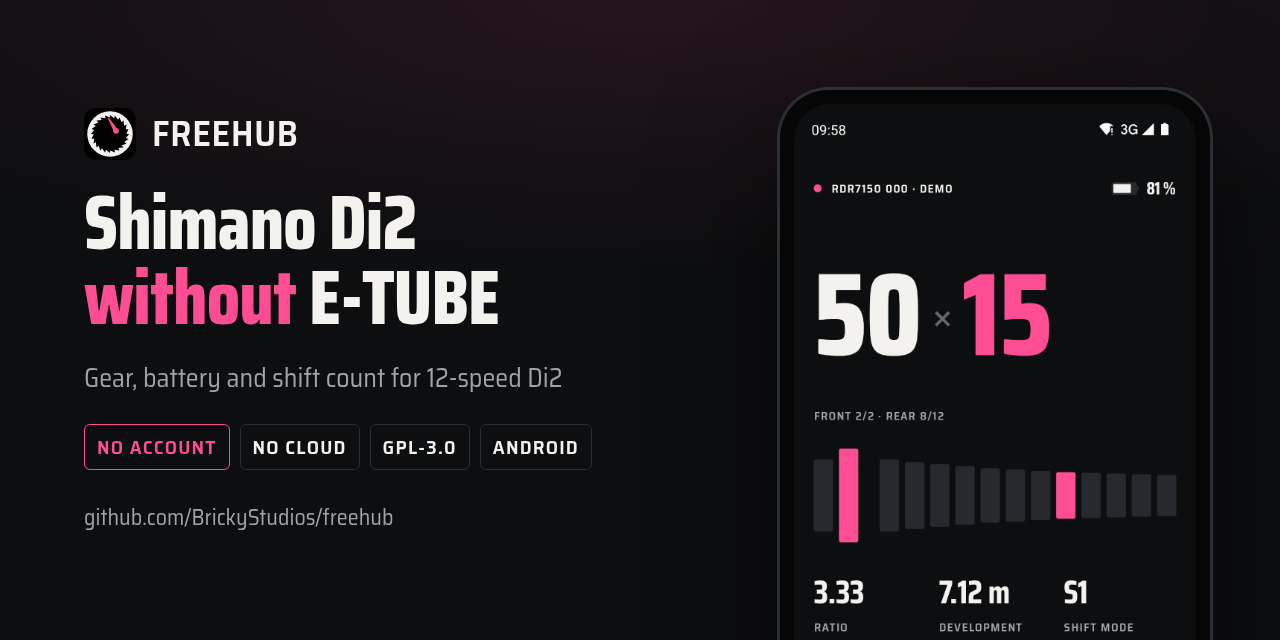
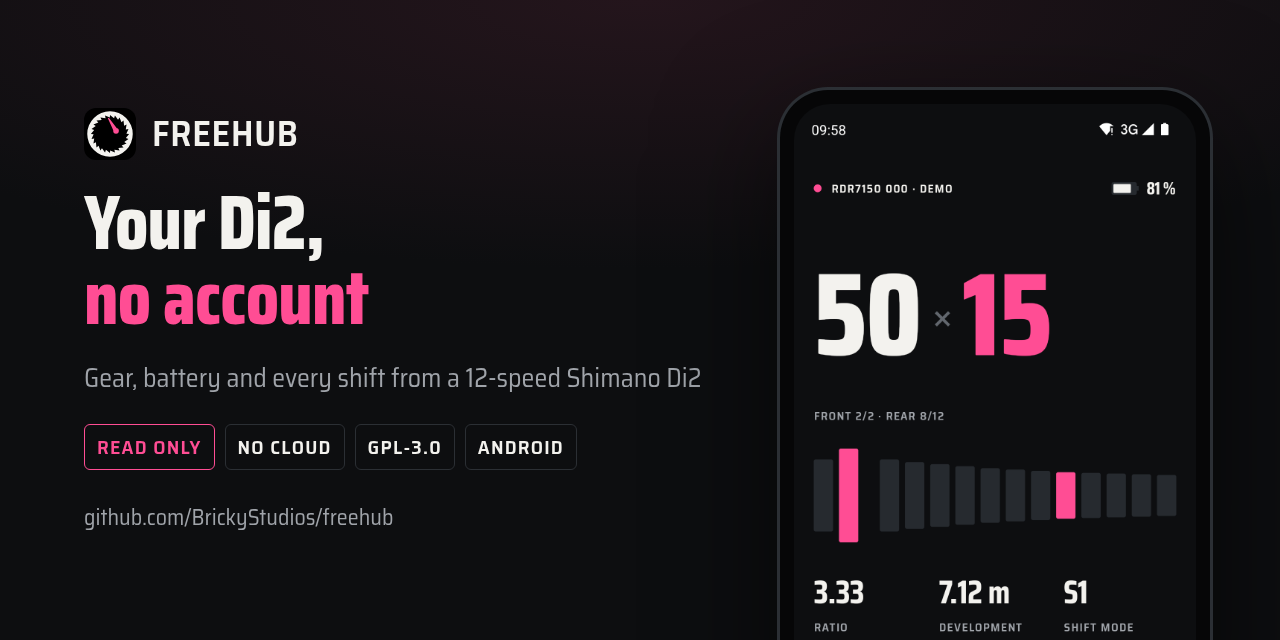
Lead with no account instead of without E-TUBE
E-TUBE is Shimano's whole Di2 platform, which Freehub talks to; the old
line also promised more than a read-only app does. Preview image and
link titles now say what the app really saves you: an account.

Changed region(s): [[0.0625, 0.2812, 0.4062, 0.5312], [0.2188, 0.5625, 0.5625, 0.625], [0.0625, 0.6875, 0.4688, 0.7188]]

diff --git a/tools/rahmen.html b/tools/rahmen.html
@@ -32,7 +32,7 @@ const t=q.get("t").replace("|","<br>").replace(/\*(.+?)\*/g,"<em>$1</em>");
 const logo='<svg viewBox="22 22 64 64"><path fill="#F3F2EE" fill-rule="evenodd" d="M26.00,54.00a28,28 0 1,0 56.00,0a28,28 0 1,0 -56.00,0z M54.00,30.48L59.01,34.47L60.09,31.28L63.90,36.44L65.76,33.63L68.11,39.60L70.63,37.37L71.35,43.74L74.37,42.24L73.42,48.58L76.72,47.91L74.16,53.79L77.52,54.00L73.53,59.01L76.72,60.09L71.56,63.90L74.37,65.76L68.40,68.11L70.63,70.63L64.26,71.35L65.76,74.37L59.42,73.42L60.09,76.72L54.21,74.16L54.00,77.52L48.99,73.53L47.91,76.72L44.10,71.56L42.24,74.37L39.89,68.40L37.37,70.63L36.65,64.26L33.63,65.76L34.58,59.42L31.28,60.09L33.84,54.21L30.48,54.00L34.47,48.99L31.28,47.91L36.44,44.10L33.63,42.24L39.60,39.89L37.37,37.37L43.74,36.65L42.24,33.63L48.58,34.58L47.91,31.28L53.79,33.84L54.00,30.48z"/><path fill="#FF4D94" d="M63.82,48.62L52.52,33.87L51.32,34.59L59.02,51.50z M57.92,50.06a3.50,3.50 0 1,0 7.00,0a3.50,3.50 0 1,0 -7.00,0z"/></svg>';
 document.body.innerHTML = q.get("art")==="wide"
  ? `<div class="wide"><div><div class="brand">${logo}<span>FREEHUB</span></div><h1>${t}</h1><div class="sub">${q.get("s")}</div>
-    <div class="chips"><span>No account</span><span>No cloud</span><span>GPL-3.0</span><span>Android</span></div>
+    <div class="chips"><span>Read only</span><span>No cloud</span><span>GPL-3.0</span><span>Android</span></div>
     <div class="small">github.com/BrickyStudios/freehub</div></div><div class="phone"><img src="${q.get("img")}"></div></div>`
  : `<div class="tall"><h1>${t}</h1><div class="sub">${q.get("s")}</div><div class="phone"><img src="${q.get("img")}"></div></div>`;
 </script></body></html>

diff --git a/docs/de/index.html b/docs/de/index.html
@@ -10,7 +10,7 @@
 <link rel="alternate" hreflang="de" href="https://brickystudios.github.io/freehub/de/">
 <link rel="alternate" hreflang="x-default" href="https://brickystudios.github.io/freehub/">
 <meta property="og:type" content="website">
-<meta property="og:title" content="Freehub: Shimano Di2 ohne E-TUBE-Konto">
+<meta property="og:title" content="Freehub: Shimano-Di2-App ohne Konto">
 <meta property="og:description" content="Gang, Akku und Schaltvorgänge für 12-fach Di2, live auf Android. Ohne Konto.">
 <meta property="og:url" content="https://brickystudios.github.io/freehub/de/">
 <meta property="og:image" content="https://brickystudios.github.io/freehub/bilder/social-preview.png">

diff --git a/docs/index.html b/docs/index.html
@@ -10,7 +10,7 @@
 <link rel="alternate" hreflang="de" href="https://brickystudios.github.io/freehub/de/">
 <link rel="alternate" hreflang="x-default" href="https://brickystudios.github.io/freehub/">
 <meta property="og:type" content="website">
-<meta property="og:title" content="Freehub: Shimano Di2 without E-TUBE">
+<meta property="og:title" content="Freehub: Shimano Di2 app, no account">
 <meta property="og:description" content="Gear, battery and shift count for 12-speed Di2, read live on Android. No account.">
 <meta property="og:url" content="https://brickystudios.github.io/freehub/">
 <meta property="og:image" content="https://brickystudios.github.io/freehub/bilder/social-preview.png">
